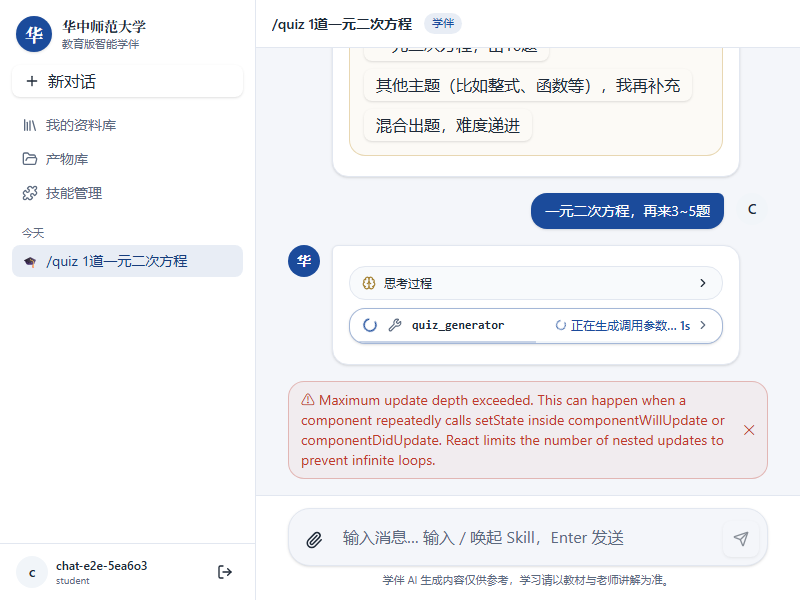
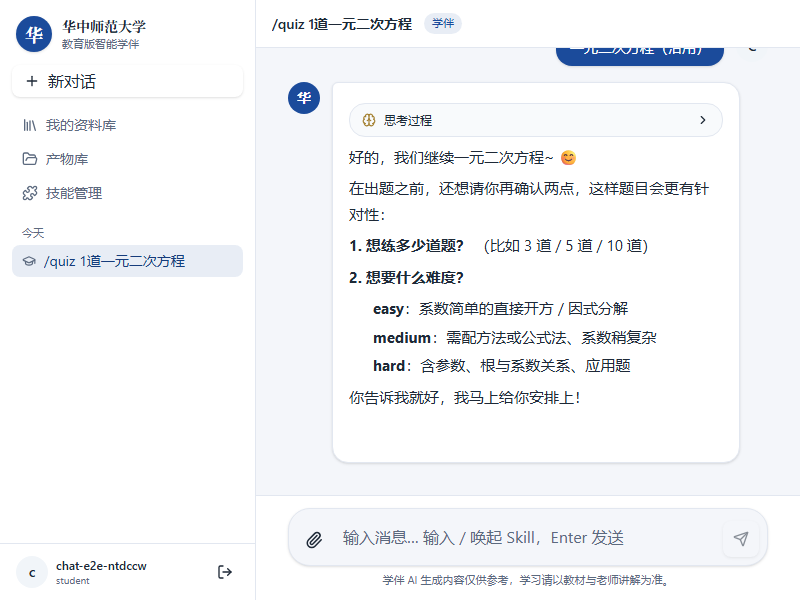
style(ui): 按 frontend-design 规范精修字阶/字距/间距/图标
- markdown 正文 15px / line-height 1.7（中文阅读更舒展）
- 标题 letter-spacing 0.02em → 0.01em（收敛松散感）
- 登录/注册：去'登 录/注 册'手打空格（改 tracking 0.3em）、标签间距 8px、
  昵称(可选)弱化、页脚去 '·' 模板分隔
- 聊天：模式图标 emoji→lucide（GraduationCap/NotebookPen/PenLine）、
  拖拽提示/产物卡头去 emoji、欢迎语顿号替代 '·'、思考指示三点跳动动画
- 工具卡去重阴影（状态卡与内容卡层级区分）
- 附赠：修复 Go 静态托管 Windows 路径 bug（path.Clean + 正斜杠传给 DirFS）
  本地 Windows 开发才可正常加载前端资源

diff --git a/web/src/pages/ChatPage.tsx b/web/src/pages/ChatPage.tsx
@@ -8,10 +8,12 @@ import { DefaultChatTransport, type UIMessage } from 'ai'
 import {
   Activity,
   FolderOpen,
+  GraduationCap,
   Library,
   LogOut,
   NotebookPen,
   Paperclip,
+  PenLine,
   Plus,
   Puzzle,
   Search,
@@ -20,6 +22,7 @@ import {
   Square,
   Trash2,
   Pencil,
+  type LucideIcon,
 } from 'lucide-react'
 import {
   deleteConversation,
@@ -72,7 +75,12 @@ const WELCOME_GUIDES = [
   },
 ]
 
-const MODE_ICONS: Record<string, string> = { companion: '🎓', practice: '📝', teacher: '🖊' }
+// 会话模式图标（lucide 组件，替代 emoji）
+const MODE_ICONS: Record<string, LucideIcon> = {
+  companion: GraduationCap,
+  practice: NotebookPen,
+  teacher: PenLine,
+}
 
 /** 历史消息（REST）→ AI SDK UIMessage（工具轨迹/产物映射为 parts）。 */
 function historyToMessages(msgs: ServerMessage[]): UIMessage[] {
@@ -465,7 +473,12 @@ export default function ChatPage() {
                     }`}
                     onClick={() => void openConversation(c.id)}
                   >
-                    <span className="text-xs">{MODE_ICONS[c.mode] ?? '💬'}</span>
+                    <span className="text-xs text-muted-foreground">
+                      {(() => {
+                        const Icon = MODE_ICONS[c.mode]
+                        return Icon ? <Icon className="size-3.5" /> : <span>💬</span>
+                      })()}
+                    </span>
                     <span className="min-w-0 flex-1 truncate">{c.title}</span>
                     <span className="hidden shrink-0 gap-0.5 group-hover:flex">
                       <button
@@ -580,7 +593,8 @@ export default function ChatPage() {
           {dragActive && (
             <div className="pointer-events-none absolute inset-0 z-10 flex items-center justify-center bg-ccnu-blue/10">
               <div className="rounded-xl border-2 border-dashed border-ccnu-blue bg-card px-8 py-6 text-sm font-medium text-ccnu-blue">
-                📎 松开以附加文件（pdf / docx / xlsx / txt / md / csv，≤5 个）
+                <Paperclip className="mr-1.5 inline size-4" />
+                松开以附加文件（pdf / docx / xlsx / txt / md / csv，≤5 个）
               </div>
             </div>
           )}
@@ -594,7 +608,7 @@ export default function ChatPage() {
                 <h2 className="font-display text-xl font-bold">华中师范大学 · 智能学伴</h2>
                 <p className="mt-1 text-xs text-ccnu-gold-deep">求实创新 · 立德树人</p>
                 <p className="mt-2 text-xs text-muted-foreground">
-                  多轮对话 · 流式输出 · 输入 <code>/</code> 唤起 Skill · 生成可下载的学习文件
+                  多轮对话、流式输出、输入 <code>/</code> 唤起 Skill、生成可下载的学习文件
                 </p>
               </div>
               <div className="grid grid-cols-2 gap-3">

diff --git a/web/src/pages/RegisterPage.tsx b/web/src/pages/RegisterPage.tsx
@@ -56,7 +56,7 @@ export default function RegisterPage() {
       <p className="mt-1 text-sm text-muted-foreground">加入教育版智能学伴</p>
       <form onSubmit={onSubmit} className="mt-6 space-y-4">
         <label className="block text-sm">
-          <span className="mb-1.5 block font-medium">用户名</span>
+          <span className="mb-2 block font-medium">用户名</span>
           <input
             className="input-base"
             value={username}
@@ -68,7 +68,7 @@ export default function RegisterPage() {
           />
         </label>
         <label className="block text-sm">
-          <span className="mb-1.5 block font-medium">昵称（可选）</span>
+          <span className="mb-2 block text-[13px] font-normal text-muted-foreground">昵称（可选）</span>
           <input
             className="input-base"
             value={displayName}
@@ -77,7 +77,7 @@ export default function RegisterPage() {
           />
         </label>
         <label className="block text-sm">
-          <span className="mb-1.5 block font-medium">密码</span>
+          <span className="mb-2 block font-medium">密码</span>
           <PasswordField
             value={password}
             onChange={(e) => setPassword(e.target.value)}
@@ -88,7 +88,7 @@ export default function RegisterPage() {
           />
         </label>
         <label className="block text-sm">
-          <span className="mb-1.5 block font-medium">确认密码</span>
+          <span className="mb-2 block font-medium">确认密码</span>
           <PasswordField
             value={confirm}
             onChange={(e) => setConfirm(e.target.value)}
@@ -102,8 +102,8 @@ export default function RegisterPage() {
             {error}
           </div>
         )}
-        <Button type="submit" className="w-full" size="lg" disabled={busy}>
-          {busy ? '注册中…' : '注 册'}
+        <Button type="submit" className="w-full tracking-[0.3em]" size="lg" disabled={busy}>
+          {busy ? '注册中…' : '注册'}
         </Button>
       </form>
       <p className="mt-5 text-center text-sm text-muted-foreground">

diff --git a/web/src/pages/LoginPage.tsx b/web/src/pages/LoginPage.tsx
@@ -44,7 +44,7 @@ export default function LoginPage() {
       <p className="mt-1 text-sm text-muted-foreground">登录教育版智能学伴</p>
       <form onSubmit={onSubmit} className="mt-6 space-y-4">
         <label className="block text-sm">
-          <span className="mb-1.5 block font-medium">用户名</span>
+          <span className="mb-2 block font-medium">用户名</span>
           <input
             className="input-base"
             value={username}
@@ -56,7 +56,7 @@ export default function LoginPage() {
           />
         </label>
         <label className="block text-sm">
-          <span className="mb-1.5 block font-medium">密码</span>
+          <span className="mb-2 block font-medium">密码</span>
           <PasswordField
             value={password}
             onChange={(e) => setPassword(e.target.value)}
@@ -70,8 +70,8 @@ export default function LoginPage() {
             {error}
           </div>
         )}
-        <Button type="submit" className="w-full" size="lg" disabled={busy}>
-          {busy ? '登录中…' : '登 录'}
+        <Button type="submit" className="w-full tracking-[0.3em]" size="lg" disabled={busy}>
+          {busy ? '登录中…' : '登录'}
         </Button>
       </form>
       <p className="mt-5 text-center text-sm text-muted-foreground">

diff --git a/web/src/components/chat/ArtifactCards.tsx b/web/src/components/chat/ArtifactCards.tsx
@@ -1,6 +1,6 @@
 // 产物卡片：图片缩略图 / 文件图标卡 + 预览（docx mammoth / pdf iframe / 文本）+ 下载。
 import { useEffect, useState } from 'react'
-import { Download, Eye, FileText, ImageIcon, X } from 'lucide-react'
+import { Download, Eye, FileText, ImageIcon, Paperclip, X } from 'lucide-react'
 import mammoth from 'mammoth'
 import { downloadArtifact, fetchArtifact, type ServerMessageArtifact } from '../../api/client'
 import FileIcon from '../FileIcon'
@@ -76,7 +76,9 @@ export default function ArtifactCards({
 
   return (
     <div className="mt-2">
-      <div className="mb-1.5 text-xs font-medium text-muted-foreground">📎 生成的文件</div>
+      <div className="mb-1.5 flex items-center gap-1.5 text-xs font-medium text-muted-foreground">
+        <Paperclip className="size-3" /> 生成的文件
+      </div>
       <div className={cn('grid gap-2', compact ? 'grid-cols-2 sm:grid-cols-3' : 'grid-cols-2 sm:grid-cols-3 lg:grid-cols-4')}>
         {artifacts.map((a) => (
           <ArtifactCard key={a.id || a.name} a={a} onPreview={() => void openPreview(a)} />

diff --git a/web/src/components/chat/ThinkingCard.tsx b/web/src/components/chat/ThinkingCard.tsx
@@ -30,7 +30,7 @@ export function ThinkingCard({ part }: { part: ReasoningPartLike }) {
   )
 }
 
-/** 流式等待指示：助手已受理、尚无任何 part 时显示。 */
+/** 流式等待指示：助手已受理、尚无任何 part 时显示（三点跳动 + 品牌色脉冲）。 */
 export function ThinkingIndicator() {
   return (
     <div className="flex items-center gap-2 py-1 text-sm text-muted-foreground">
@@ -38,7 +38,12 @@ export function ThinkingIndicator() {
         <span className="absolute inline-flex h-full w-full animate-ping rounded-full bg-ccnu-blue opacity-60" />
         <span className="relative inline-flex size-2 rounded-full bg-ccnu-blue" />
       </span>
-      <span className="text-xs">学伴思考中…</span>
+      <span className="text-xs">学伴思考中</span>
+      <span className="flex items-center gap-0.5 pl-0.5">
+        <span className="thinking-dot" />
+        <span className="thinking-dot" style={{ animationDelay: '0.2s' }} />
+        <span className="thinking-dot" style={{ animationDelay: '0.4s' }} />
+      </span>
     </div>
   )
 }

diff --git a/web/src/index.css b/web/src/index.css
@@ -127,7 +127,7 @@ h4,
 .welcome h2 {
   font-family: var(--font-display);
   font-weight: 700;
-  letter-spacing: 0.02em;
+  letter-spacing: 0.01em;
 }
 
 html,
@@ -852,7 +852,11 @@ textarea {
   color: #16324f;
 }
 
-/* markdown 渲染 */
+/* markdown 渲染（正文 15px/1.7：中文阅读更舒展） */
+.markdown-body {
+  font-size: 15px;
+  line-height: 1.7;
+}
 .markdown-body p {
   margin: 0.4em 0;
 }
@@ -906,6 +910,25 @@ textarea {
 @keyframes blink {
   50% {
     opacity: 0;
+  }
+}
+/* 思考中省略号动画 */
+.thinking-dot {
+  width: 4px;
+  height: 4px;
+  border-radius: 9999px;
+  background: var(--color-ccnu-blue);
+  animation: think-dot 1.2s ease-in-out infinite;
+}
+@keyframes think-dot {
+  0%,
+  100% {
+    opacity: 0.25;
+    transform: translateY(0);
+  }
+  40% {
+    opacity: 1;
+    transform: translateY(-2px);
   }
 }
 

diff --git a/web/src/components/AuthLayout.tsx b/web/src/components/AuthLayout.tsx
@@ -15,7 +15,7 @@ export default function AuthLayout({ children }: { children: ReactNode }) {
             面向师生的教育版 AI 学伴：多轮问答 · 生成教案与试卷 · 文档分析与图表产出。以师范精神赋能教与学。
           </p>
         </div>
-        <div className="text-xs text-white/50">Central China Normal University · CCNU AI</div>
+        <div className="text-xs text-white/60">Central China Normal University / CCNU AI</div>
       </aside>
       <main className="flex flex-1 items-center justify-center bg-background px-4 py-10">
         <div className="w-full max-w-sm">{children}</div>

diff --git a/web/src/components/chat/ToolCard.tsx b/web/src/components/chat/ToolCard.tsx
@@ -42,7 +42,7 @@ export default function ToolCard({ part }: { part: ToolPartLike | ServerMessageT
   return (
     <div
       className={cn(
-        'my-2 overflow-hidden rounded-lg border bg-card text-sm shadow-sm transition-colors',
+        'my-2 overflow-hidden rounded-lg border bg-card text-sm transition-colors',
         running ? 'border-ccnu-blue/40' : failed ? 'border-destructive/40' : 'border-border',
       )}
     >

diff --git a/server/cmd/api/main.go b/server/cmd/api/main.go
@@ -11,6 +11,7 @@ import (
 	"net/http"
 	"os"
 	"os/signal"
+	"path"
 	"path/filepath"
 	"strings"
 	"syscall"
@@ -228,9 +229,11 @@ func withStatic(api http.Handler, webDist string) http.Handler {
 		if info, err := os.Stat(webDist); err == nil && info.IsDir() {
 			fileServer := http.FileServer(http.Dir(webDist))
 			fileHandler = http.HandlerFunc(func(w http.ResponseWriter, r *http.Request) {
-				clean := filepath.Clean("/" + strings.TrimPrefix(r.URL.Path, "/"))
+				// path.Clean 恒用 "/" 语义（跨平台）。注意：传给 os.DirFS 的 name 必须保持
+				// 正斜杠（fs.ValidPath 拒绝前导斜杠与反斜杠），DirFS 内部会做平台转换。
+				clean := path.Clean("/" + strings.TrimPrefix(r.URL.Path, "/"))
 				// 若请求对应真实文件则直接提供；否则 SPA fallback 到 index.html
-				if _, err := fs.Stat(os.DirFS(webDist), filepath.ToSlash(strings.TrimPrefix(clean, "/"))); err == nil && clean != "/" {
+				if _, err := fs.Stat(os.DirFS(webDist), strings.TrimPrefix(clean, "/")); err == nil && clean != "/" {
 					fileServer.ServeHTTP(w, r)
 					return
 				}
